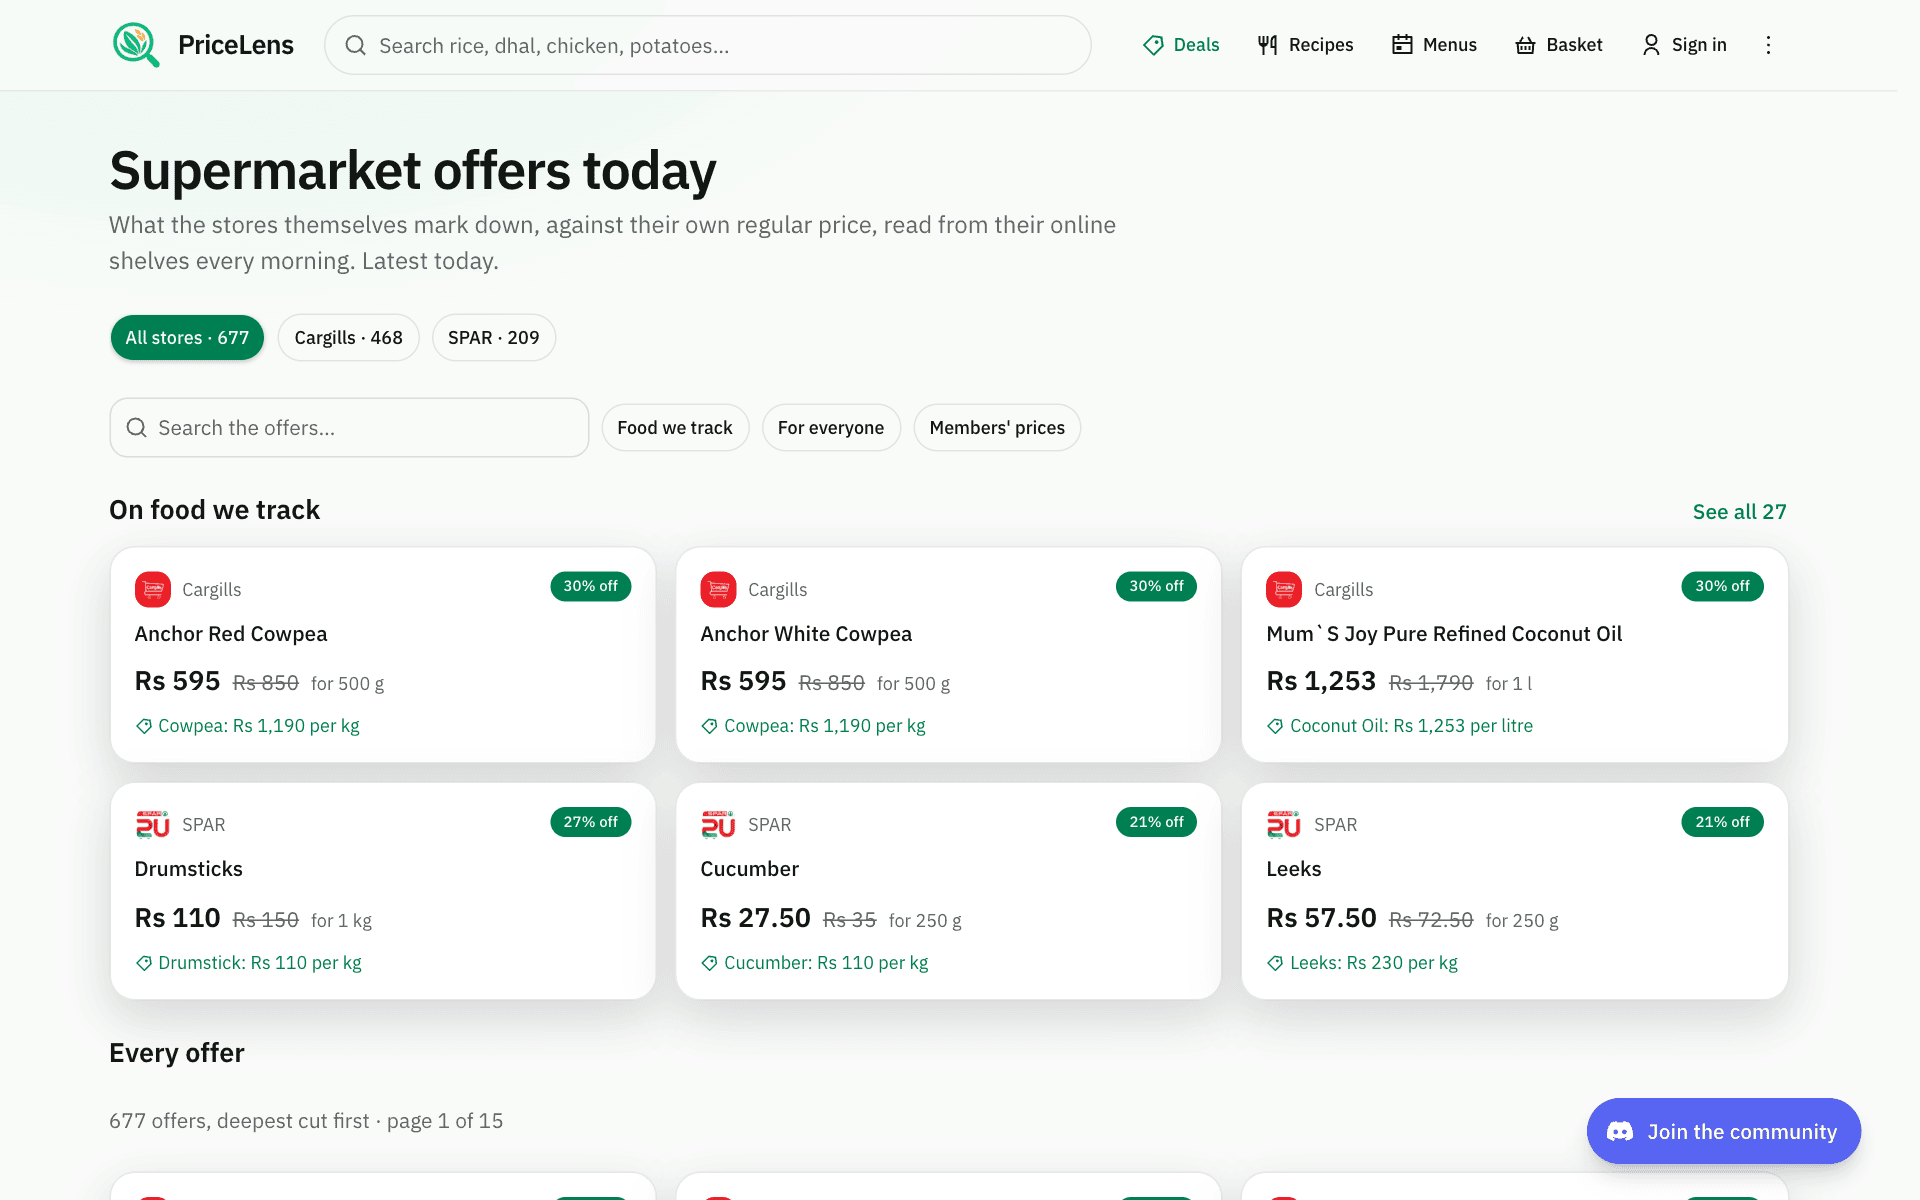
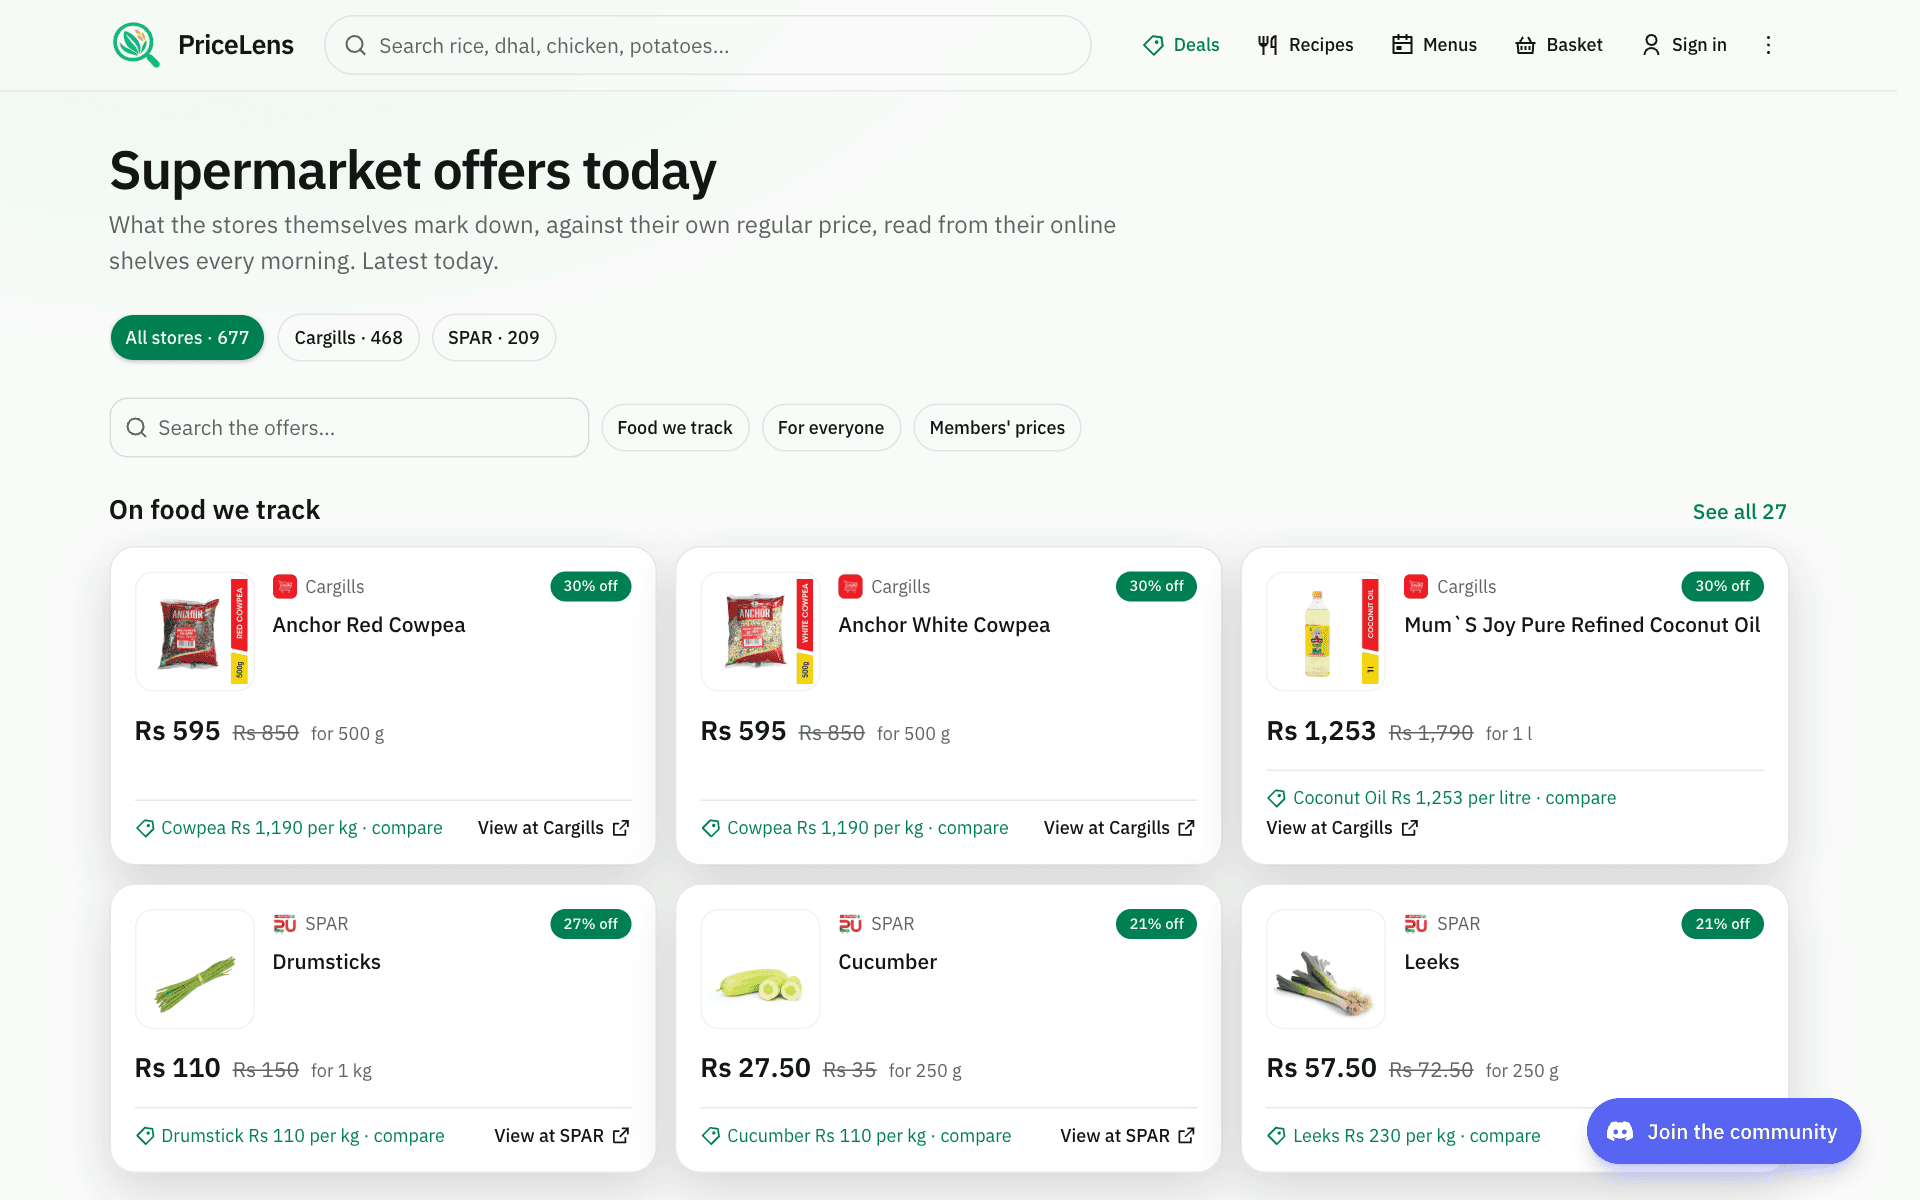
docs(web): the guide's Deals section shows the stores' pictures and the link to the store
The "Catch the offers" section says a card carries the store's own picture of the item and that "View at Keells" (or Cargills, Glomark, SPAR) opens that item on the store's site; the screenshot is retaken with both, and docs/user-guide.md follows.

Changed region(s): [[0.0625, 0.4625, 0.9688, 1.0]]

diff --git a/web/src/content/guide.ts b/web/src/content/guide.ts
@@ -85,16 +85,17 @@ export const guideSections: GuideSection[] = [
   {
     id: "deals",
     title: "Catch the offers",
-    summary: "“Deals” in the header lists what each supermarket itself marks down today: the store's own product name, the offer price, the store's regular price struck through, and the cut. It is read from the online shelves of Keells, Cargills, Glomark, and SPAR every morning, and covers their whole range, not only the food PriceLens tracks.",
+    summary: "“Deals” in the header lists what each supermarket itself marks down today: the store's own picture and name for the item, the offer price, the store's regular price struck through, and the cut. It is read from the online shelves of Keells, Cargills, Glomark, and SPAR every morning, and covers their whole range, not only the food PriceLens tracks.",
     steps: [
       "The chips at the top pick one store; each says how many offers it has today. Offers are listed deepest cut first.",
-      "“Food we track” keeps the offers on products the site prices everywhere. Those cards link to the product's page and give the offer per kilo (or litre, or piece), so it compares with the other sellers.",
+      "“View at Keells” (or Cargills, Glomark, SPAR) on a card opens that very item on the store's own site, in a new tab, so you can check it or buy it there.",
+      "“Food we track” keeps the offers on products the site prices everywhere. Those cards also say the offer per kilo (or litre, or piece) with a “compare” link to the product's page, so it reads against the other sellers.",
       "A crown badge marks a members' price: at Keells that is a Nexus deal, and the card shows the ordinary shelf price beside it. “For everyone” hides those; “Members' prices” shows only them. A limit per shopper is stated when the store sets one.",
       "Search the offers by the store's wording: a brand, a pack, a product. Filters and the page are kept in the address, so a view can be shared.",
       "The daily price digest carries the day's best store offers on tracked food as well, under “Store offers today”, and so do the Telegram messages.",
     ],
     figures: [
-      { file: "deals", alt: "The Deals page: store chips with offer counts, filters, and offer cards with the store, the cut, the offer price, the regular price struck through, and the price per kilo for tracked food", caption: "Deals: what each store marks down today, the food PriceLens tracks first.", width: 1920, height: 1200 },
+      { file: "deals", alt: "The Deals page: store chips with offer counts, filters, and offer cards with the store's picture of the item, the cut, the offer price, the regular price struck through, the price per kilo for tracked food, and a link to the item on the store's site", caption: "Deals: what each store marks down today, the food PriceLens tracks first.", width: 1920, height: 1200 },
     ],
     tips: [
       "An offer is the store's own claim, read from its site: a regular price beside the price with the offer. Cargills compares with the maximum retail price printed on the pack.",

diff --git a/docs/user-guide.md b/docs/user-guide.md
@@ -95,21 +95,24 @@ Below the sellers, the history chart draws every seller's price over time.
 ## 5. Catch the offers
 
 "Deals" in the header lists what each supermarket itself marks down today: the store's own
-product name, the offer price, the store's regular price struck through, and the cut. It is
+picture and name for the item, the offer price, the store's regular price struck through, and
+the cut. It is
 read from the online shelves of Keells, Cargills, Glomark, and SPAR every morning, and covers
 their whole range, not only the food PriceLens tracks.
 
 1. The chips at the top pick one store; each says how many offers it has today. Offers are
    listed deepest cut first.
-2. "Food we track" keeps the offers on products the site prices everywhere. Those cards link
-   to the product's page and give the offer per kilo (or litre, or piece), so it compares with
-   the other sellers.
-3. A crown badge marks a members' price: at Keells that is a Nexus deal, and the card shows
+2. "View at Keells" (or Cargills, Glomark, SPAR) on a card opens that very item on the store's
+   own site, in a new tab, so you can check it or buy it there.
+3. "Food we track" keeps the offers on products the site prices everywhere. Those cards also say
+   the offer per kilo (or litre, or piece) with a "compare" link to the product's page, so it
+   reads against the other sellers.
+4. A crown badge marks a members' price: at Keells that is a Nexus deal, and the card shows
    the ordinary shelf price beside it. "For everyone" hides those; "Members' prices" shows
    only them. A limit per shopper is stated when the store sets one.
-4. Search the offers by the store's wording: a brand, a pack, a product. Filters and the page
+5. Search the offers by the store's wording: a brand, a pack, a product. Filters and the page
    are kept in the address, so a view can be shared.
-5. The daily price digest carries the day's best store offers on tracked food as well, under
+6. The daily price digest carries the day's best store offers on tracked food as well, under
    "Store offers today", and so do the Telegram messages.
 
 ![Deals: what each store marks down today](../web/public/guide/deals.png)
